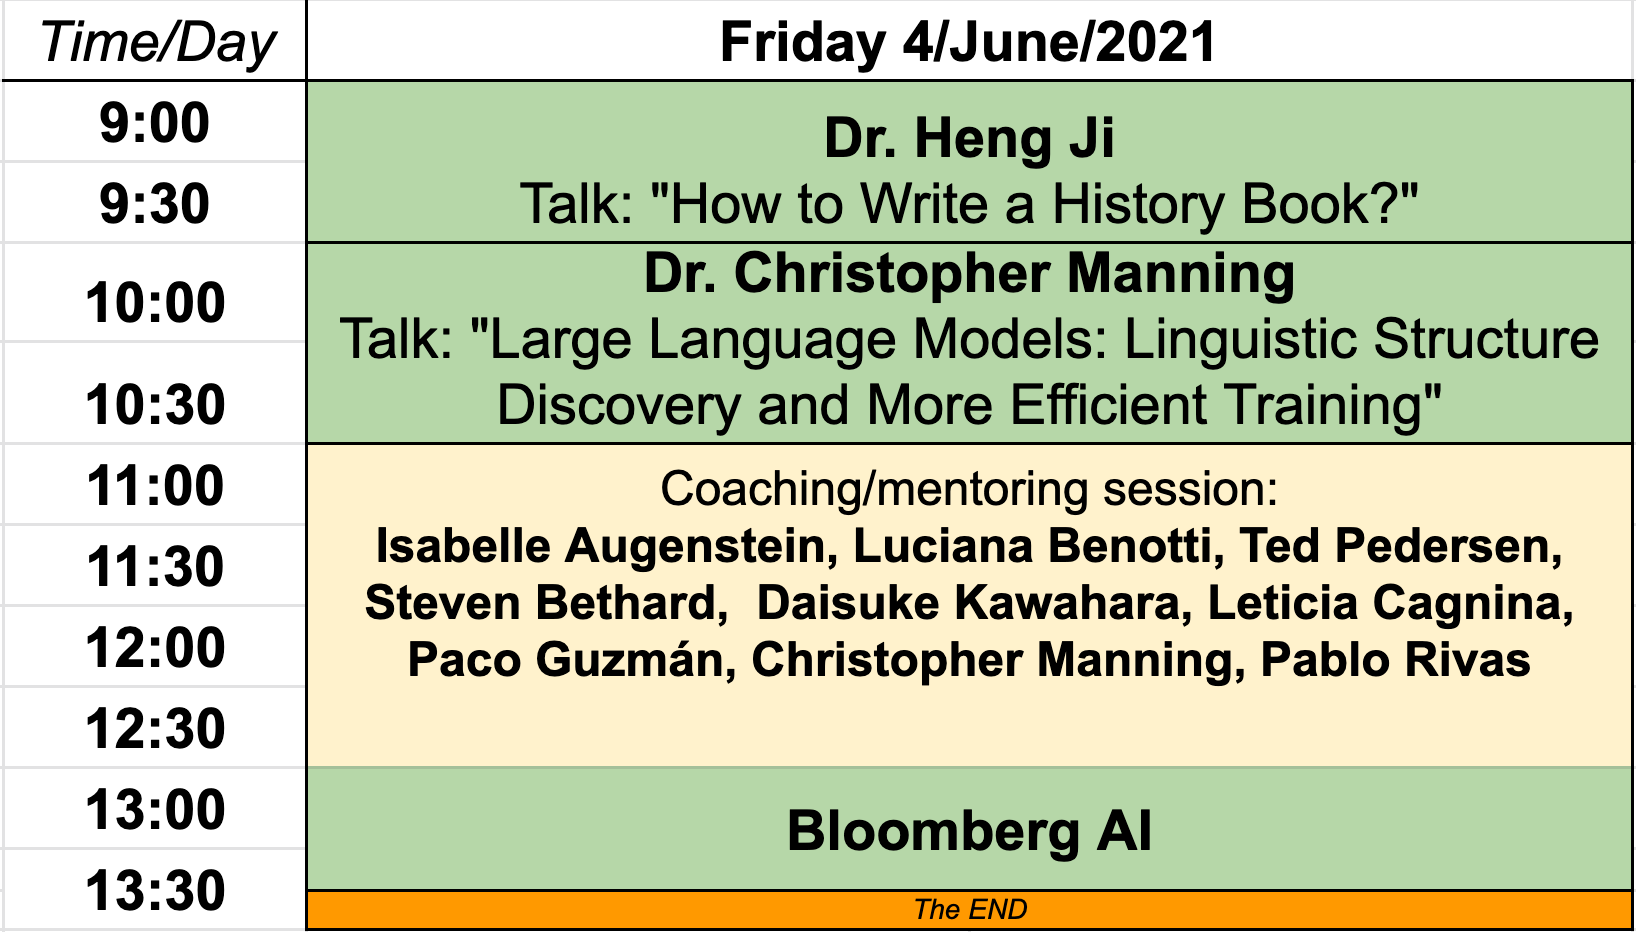
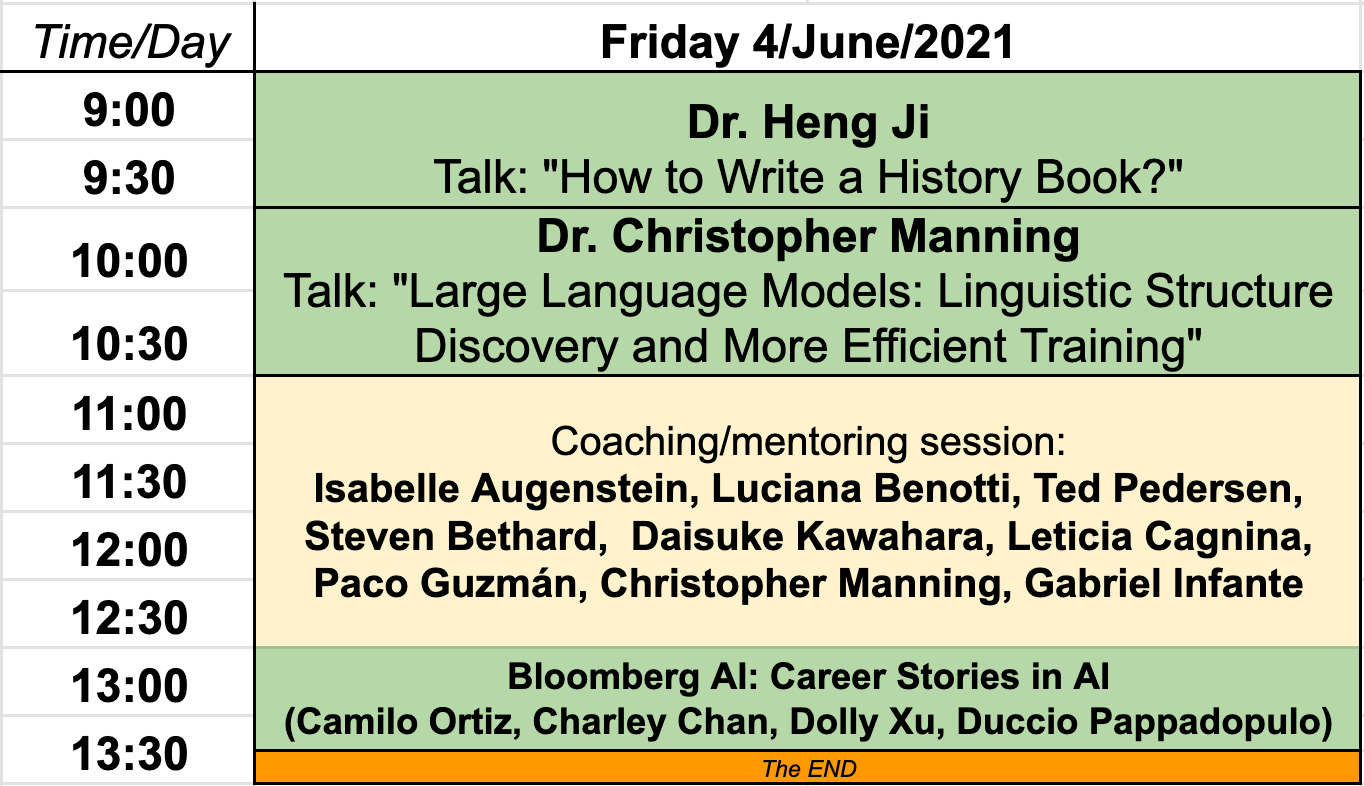
Update speakers and program
update Alexander Bio and Tutorial Info. Also, the program table was updated.

diff --git a/_site/speakers/index.html b/_site/speakers/index.html
@@ -407,13 +407,9 @@
       <br />
 			<!-- Headshot image -->
 			<img width="190" id="bio-image" src="/assets/images/Gelbukh.jpg" align="left" alt="Alexander Gelbukh" hspace="10" />
-
-      <br />
-      Alexander Gelbukh (born 1962) is a Russian professor and a member of Mexican Academy of Sciences. He currently works at Centro de Investigación en Computación, Instituto Politécnico Nacional. His research interest is about computational linguistics. In 2000, he founded CICLing conference to exchange of opinions between the scientists of different countries in the growing area of computational linguistics and intelligent text processing.
-      <br />
-      <br />
-      <br />
-      <br />
+      Dr. Alexander Gelbukh received his MSc degree in mathematics, with distinction, from the M.V. Lomonosov Moscow State University, Russia, in 1990. He received his PhD degree in computer science from the All-Russian Institute for Scientific and Technical Information, also in Moscow, in 1995. Since 1997, he serves as Research Professor and Head of the Natural Language Processing Laboratory of the Computer Research Center (CIC) of the Instituto Politécnico Nacional (IPN), Mexico. He has been Distinguished Visiting Professor at the Chung-Ang University, South Korea, in 2003–2004, Visiting Research Fellow at the Waseda University, Japan, in 2010–2011, and Visiting Research Fellow at the University of Wolverhampton, UK, in 2018–2019. He is a visiting professor at the National University of Colombia (UNAL) since 2007 and an Honorary Professor at the Amity University, India, since 2017. He is a National Researcher of Mexico (member of the SNI) since 1998, currently at the level 3 (the highest). He is a member of the Mexican Academy of Sciences since 2000, a founding member of the Mexican Academy of Computing since 2015, a Distinguished Honorary Member (Fellow) of the International Engineering and Technology Institute, Hong Kong and USA, since 2015, and a Fellow (emeritus member) of the Mexican Society of Artificial Intelligence (SMIA). He has been the founding president of the Mexican Association for Natural Language Processing (AMPLN) for several years since 2000 and president of the Mexican Society of Artificial Intelligence (SMIA) in 2013–2014.
+    <br />
+    <br />
       <img width="190" id="bio-image" src="/assets/images/Sidorov_2012.jpg" align="left" alt="Grigori Sidorov" hspace="10" />
 		</section>
     <br />
@@ -430,7 +426,8 @@
 		<!-- Section 2: Additional Information -->
 		<section id="additional-info">
 
-			<h3>Tutorial: Introducción al Procesamiento del Lenguaje Natural </h3>
+			<h3>Tutorial: Natural Language Processing, Introduction </h3>
+        In the first part of the tutorial, the motivation behind the study of natural language processing will be discussed. Some of its applications will be presented, the dangers that the development of this area entails (and from which we must learn to defend ourselves), as well as in a very brief way some methods that are used. Finally, an invitation will be made to study a Master or PhD (with full scholarship) in this area. In the second part, general ideas related to the field of artificial intelligence will be presented. The vector space model, cosine similarity, feature selection and types of features (bag of words, n-grams of various types, syntactic n-grams) and the values of the features (tf, tf-idf) will be briefly described. The application of machine learning methods to the analysis of texts will be presented. Various applications will be conceptually described: for example, how the author profiling (gender, age), spam detection, and authorship attribution, among others, can be automatically performed.
 
 
       <h3>Contact information</h3>
@@ -626,6 +623,24 @@
 			<!-- Headshot image -->
 			<img width="220" id="bio-image" src="/assets/images/Guzman.jpeg" align="left" alt="Francisco Guzman" hspace="10" />
       Paco Guzmán is a Research Scientist working on Translations. His research has been focused on several aspects of Machine Translation including low-resource translation, translation mining, evaluation, and quality estimation. Over the years, Paco has been a speaker and panelist on several events dedicated to increasing diversity in AI. He co-founded the Facebook-Georgia Tech co-teaching program. Before joining Facebook in 2016, Paco was a Research Scientist at Qatar Computing Research Institute in Qatar in 2012-2016. He obtained his PhD in 2011 from ITESM (Monterrey Tech) in Mexico. Paco visited Carnegie Mellon University in 2008-2009 where he worked at the Language Technologies Institute.
+
+		</section>
+	</div>
+</body>
+
+<hr />
+
+<body>
+  <div class="container">
+		<!-- Section 1: Biography -->
+		<section id="main-bio">
+			<!-- h2: Tier-2 Headline (Not as important as the h1 header, but more than one allowed). -->
+			<h2>Dr. Gabriel Infante-Lopez</h2>
+      <h4>Principal Data Science at Proofpoint Inc.</h4>
+      <br />
+			<!-- Headshot image -->
+			<img width="220" id="bio-image" src="/assets/images/Gabriel-Infante-Lopez.jpeg" align="left" alt="Gabriel Infante Lopez" hspace="10" />
+      Gabriel Infante-Lopez is a Principal Data Science at Proofpoint Inc. He has a PhD in Natural Language Parsing, and expertise in Formal Methods, Data Mining and Machine Learning. He has more than 15 years' experience in Research and Development. He has worked as Architect designing and implementing Recommendation Engines, Expert Systems for Security, and Machine Learning Lifecycles and Architectures. He was a Principal Engineer at Wildlife Studios, McAfee and Intel. He has produced innovative ideas in Knowledge Representation, Graph Databases and Cyber Security. He has more than 20 international publications and 7 patents. His key interests include security, resilient fault tolerant system, machine learning, big data, knowledge representation and programming languages.
 
 		</section>
 	</div>

diff --git a/_site/2021-04-27-Registration/index.html b/_site/2021-04-27-Registration/index.html
@@ -219,7 +219,7 @@
 
 <p><strong>Registration will remain open until May 20th.</strong></p>
 
-<p>The registration form is <a href="https://forms.gle/xaXRanSDykqdM2UdA" target="_blank">here</a>.</p>
+<p>The registration form is <a href="https://forms.gle/xaXRanSDykqdM2UdA" target="_blank">here</a>. <strong>[CLOSED]</strong></p>
 
 <p>The Google group of the Mexican NLP Summer School is <a href="https://groups.google.com/g/mexican_nlp_summer_school" target="_blank">here</a>.</p>
 

diff --git a/speakers.md b/speakers.md
@@ -210,13 +210,9 @@ css: "/assets/css/index.css"
       <br>
 			<!-- Headshot image -->
 			<img width="190" id="bio-image" src="{{ 'assets/images/Gelbukh.jpg'| relative_url }}"  align="left" alt="Alexander Gelbukh" hspace="10">
-
-      <br>
-      Alexander Gelbukh (born 1962) is a Russian professor and a member of Mexican Academy of Sciences. He currently works at Centro de Investigación en Computación, Instituto Politécnico Nacional. His research interest is about computational linguistics. In 2000, he founded CICLing conference to exchange of opinions between the scientists of different countries in the growing area of computational linguistics and intelligent text processing.
-      <br>
-      <br>
-      <br>
-      <br>
+      Dr. Alexander Gelbukh received his MSc degree in mathematics, with distinction, from the M.V. Lomonosov Moscow State University, Russia, in 1990. He received his PhD degree in computer science from the All-Russian Institute for Scientific and Technical Information, also in Moscow, in 1995. Since 1997, he serves as Research Professor and Head of the Natural Language Processing Laboratory of the Computer Research Center (CIC) of the Instituto Politécnico Nacional (IPN), Mexico. He has been Distinguished Visiting Professor at the Chung-Ang University, South Korea, in 2003–2004, Visiting Research Fellow at the Waseda University, Japan, in 2010–2011, and Visiting Research Fellow at the University of Wolverhampton, UK, in 2018–2019. He is a visiting professor at the National University of Colombia (UNAL) since 2007 and an Honorary Professor at the Amity University, India, since 2017. He is a National Researcher of Mexico (member of the SNI) since 1998, currently at the level 3 (the highest). He is a member of the Mexican Academy of Sciences since 2000, a founding member of the Mexican Academy of Computing since 2015, a Distinguished Honorary Member (Fellow) of the International Engineering and Technology Institute, Hong Kong and USA, since 2015, and a Fellow (emeritus member) of the Mexican Society of Artificial Intelligence (SMIA). He has been the founding president of the Mexican Association for Natural Language Processing (AMPLN) for several years since 2000 and president of the Mexican Society of Artificial Intelligence (SMIA) in 2013–2014.
+    <br>
+    <br>
       <img width="190" id="bio-image" src="{{ 'assets/images/Sidorov_2012.jpg'| relative_url }}"  align="left" alt="Grigori Sidorov" hspace="10">
 		</section>
     <br>
@@ -233,7 +229,8 @@ css: "/assets/css/index.css"
 		<!-- Section 2: Additional Information -->
 		<section id="additional-info">
 
-			<h3>Tutorial: Introducción al Procesamiento del Lenguaje Natural </h3>
+			<h3>Tutorial: Natural Language Processing, Introduction </h3>
+        In the first part of the tutorial, the motivation behind the study of natural language processing will be discussed. Some of its applications will be presented, the dangers that the development of this area entails (and from which we must learn to defend ourselves), as well as in a very brief way some methods that are used. Finally, an invitation will be made to study a Master or PhD (with full scholarship) in this area. In the second part, general ideas related to the field of artificial intelligence will be presented. The vector space model, cosine similarity, feature selection and types of features (bag of words, n-grams of various types, syntactic n-grams) and the values of the features (tf, tf-idf) will be briefly described. The application of machine learning methods to the analysis of texts will be presented. Various applications will be conceptually described: for example, how the author profiling (gender, age), spam detection, and authorship attribution, among others, can be automatically performed.
 
 
       <h3>Contact information</h3>

diff --git a/_posts/2021-04-27-Registration.md b/_posts/2021-04-27-Registration.md
@@ -13,8 +13,8 @@ We will verify the eligibility status of all the received applications, and noti
 
 **Registration will remain open until May 20th.**
 
-The registration form is <a href="https://forms.gle/xaXRanSDykqdM2UdA" target="_blank">here</a>.
+The registration form is <a href="https://forms.gle/xaXRanSDykqdM2UdA" target="_blank">here</a>. **[CLOSED]**
 
 The Google group of the Mexican NLP Summer School is <a href="https://groups.google.com/g/mexican_nlp_summer_school" target="_blank">here</a>.
 
-We are looking forward to welcoming you to this great event!! 
+We are looking forward to welcoming you to this great event!!
